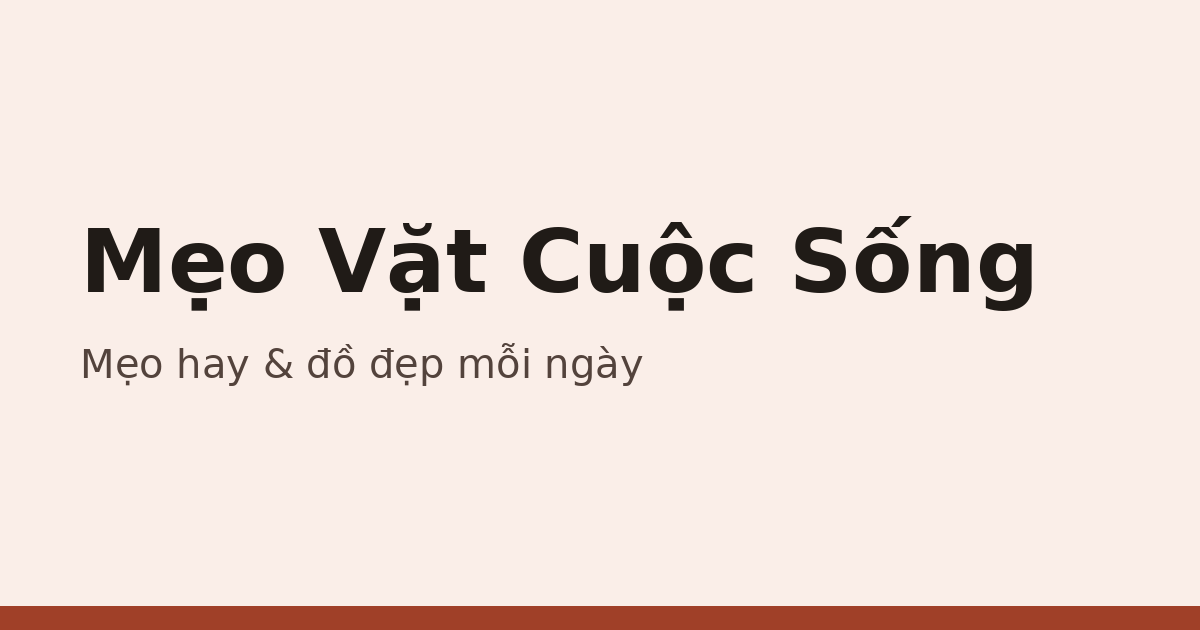
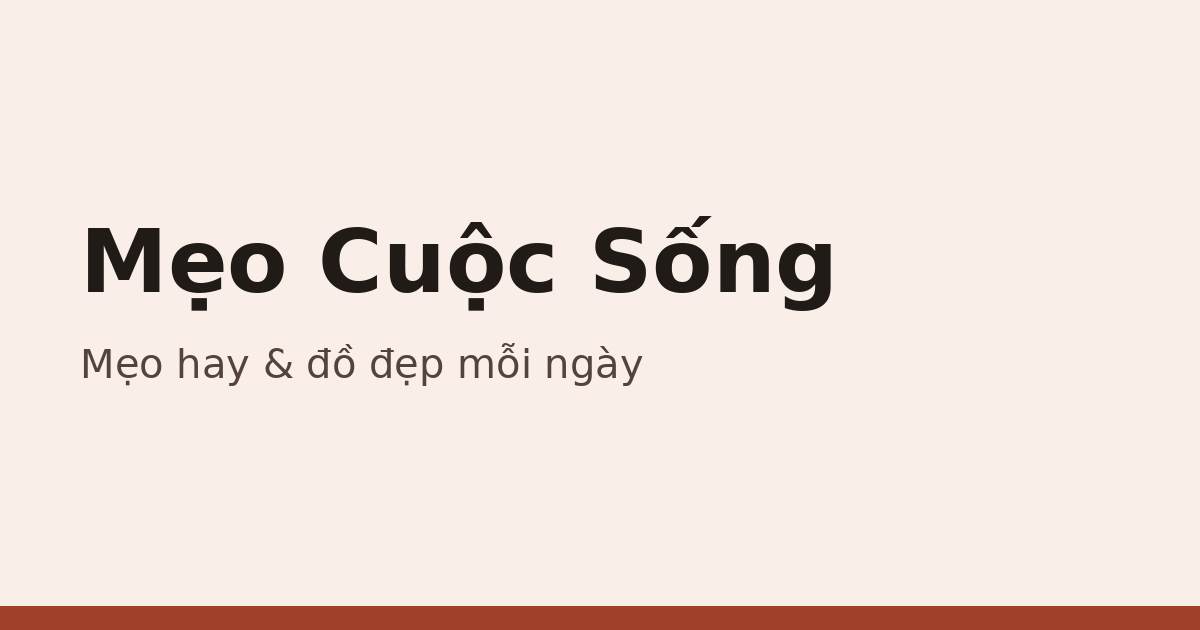
Refactor site metadata and improve SEO handling
- Updated site name from "Mẹo Vặt Cuộc Sống" to "Mẹo Cuộc Sống" across various components and prompts.
- Introduced SITE_OPEN_GRAPH constant for consistent OpenGraph metadata usage.
- Enhanced listPageMetadata and postTypeMetadata functions to handle noindex for empty categories and post types.
- Updated metadata generation for pages to include OpenGraph data.
- Improved sitemap generation to exclude empty categories and post types.
- Added tests for sitemap and post type metadata handling.
- Refactored prompts to use SITE_NAME for dynamic content generation.

Changed region(s): [[0.2467, 0.3317, 0.8633, 0.5127]]

diff --git a/app/(site)/_components/list-page-metadata.test.ts b/app/(site)/_components/list-page-metadata.test.ts
@@ -1,24 +1,55 @@
 import { describe, expect, it } from "vitest";
-import { listPageMetadata } from "@/app/(site)/_components/list-page-metadata";
+import { defaultCategoryDescription, listPageMetadata } from "@/app/(site)/_components/list-page-metadata";
+import { SITE_OPEN_GRAPH } from "@/platform/site";
 
 describe("listPageMetadata", () => {
-  it("trang 1: tiêu đề là tên, canonical là trang gốc, có meta description", () => {
+  it("trang 1: tiêu đề là tên, canonical là trang gốc, có meta description, og:url là canonical", () => {
     expect(listPageMetadata({ title: "Nhà bếp", description: "Mẹo bếp", path: "/nha-bep", page: 1 })).toEqual({
       title: "Nhà bếp",
       description: "Mẹo bếp",
       alternates: { canonical: "/nha-bep" },
+      openGraph: { ...SITE_OPEN_GRAPH, url: "/nha-bep" },
     });
   });
 
-  it("trang n > 1: tiêu đề thêm '– Trang n', canonical là chính trang đó", () => {
+  it("trang n > 1: tiêu đề và mô tả thêm '– Trang n', canonical và og:url là chính trang đó", () => {
     expect(
-      listPageMetadata({ title: "Nhà bếp", description: null, path: "/nha-bep/trang/3", page: 3 }),
-    ).toEqual({ title: "Nhà bếp – Trang 3", description: undefined, alternates: { canonical: "/nha-bep/trang/3" } });
+      listPageMetadata({ title: "Nhà bếp", description: "Mẹo bếp", path: "/nha-bep/trang/3", page: 3 }),
+    ).toEqual({
+      title: "Nhà bếp – Trang 3",
+      description: "Mẹo bếp – Trang 3",
+      alternates: { canonical: "/nha-bep/trang/3" },
+      openGraph: { ...SITE_OPEN_GRAPH, url: "/nha-bep/trang/3" },
+    });
+  });
+
+  it("trang n > 1: mô tả kết thúc bằng dấu chấm thì bỏ dấu chấm trước '– Trang n'", () => {
+    expect(
+      listPageMetadata({ title: "Mẹo vặt", description: "Mẹo nhà cửa.", path: "/meo-vat/trang/2", page: 2 }).description,
+    ).toBe("Mẹo nhà cửa – Trang 2");
+  });
+
+  it("trang 1 giữ nguyên dấu chấm cuối mô tả", () => {
+    expect(listPageMetadata({ title: "A", description: "Mô tả.", path: "/a", page: 1 }).description).toBe("Mô tả.");
+  });
+
+  it("OpenGraph giữ tên site, locale và ảnh mặc định (Next gộp openGraph nông)", () => {
+    const og = listPageMetadata({ title: "A", description: "B", path: "/a", page: 1 }).openGraph;
+    expect(og).toMatchObject({ siteName: "Mẹo Cuộc Sống", locale: "vi_VN", type: "website" });
+    expect(og?.images).toEqual(SITE_OPEN_GRAPH.images);
   });
 
   it("noindex thêm robots index:false", () => {
-    expect(listPageMetadata({ title: "A", description: null, path: "/a", page: 1, noindex: true }).robots).toEqual({
+    expect(listPageMetadata({ title: "A", description: "B", path: "/a", page: 1, noindex: true }).robots).toEqual({
       index: false,
     });
+  });
+});
+
+describe("defaultCategoryDescription", () => {
+  it("sinh mô tả từ tên Danh mục", () => {
+    expect(defaultCategoryDescription("Nhà bếp")).toBe(
+      "Mẹo vặt và đồ hay chủ đề Nhà bếp: bài hướng dẫn dễ làm, món đồ tiện ích được chọn lọc.",
+    );
   });
 });

diff --git a/app/(site)/_components/list-page-metadata.ts b/app/(site)/_components/list-page-metadata.ts
@@ -1,7 +1,9 @@
 import type { Metadata } from "next";
+import { SITE_OPEN_GRAPH } from "@/platform/site";
 
-// Metadata trang Danh mục / Loại bài (AD-26): canonical là chính trang đó; meta description = mô tả.
-// `noindex`: trang Danh mục chưa có bài (trang mỏng, không có trong điều hướng và sitemap).
+// Metadata trang Danh mục / Loại bài (AD-26): canonical và og:url là chính trang đó; meta description = mô tả,
+// trang n > 1 thêm "– Trang n" (bỏ dấu chấm cuối mô tả) để không trùng trang 1.
+// `noindex`: trang Danh mục / Loại bài chưa có bài (trang mỏng, không có trong sitemap).
 export function listPageMetadata({
   title,
   description,
@@ -10,15 +12,22 @@ export function listPageMetadata({
   noindex = false,
 }: {
   title: string;
-  description: string | null;
+  description: string;
   path: string;
   page: number;
   noindex?: boolean;
 }): Metadata {
+  const suffix = page > 1 ? ` – Trang ${page}` : "";
   return {
-    title: page > 1 ? `${title} – Trang ${page}` : title,
-    description: description ?? undefined,
+    title: `${title}${suffix}`,
+    description: page > 1 ? `${description.replace(/\.$/, "")}${suffix}` : description,
     alternates: { canonical: path },
+    openGraph: { ...SITE_OPEN_GRAPH, url: path },
     ...(noindex && { robots: { index: false } }),
   };
+}
+
+// Meta description cho Danh mục chưa có mô tả (chỉ dùng cho meta, không hiện trên trang).
+export function defaultCategoryDescription(name: string) {
+  return `Mẹo vặt và đồ hay chủ đề ${name}: bài hướng dẫn dễ làm, món đồ tiện ích được chọn lọc.`;
 }

diff --git a/app/(site)/_components/site-footer.tsx b/app/(site)/_components/site-footer.tsx
@@ -1,7 +1,9 @@
 import Link from "next/link";
+import { SITE_NAME } from "@/platform/site";
 import type { NavCategory } from "@/modules/posts/types";
 import { AffiliateDisclosure } from "@/modules/products/components/affiliate-disclosure";
 import { BIO_PATH, POST_TYPE_LINKS } from "@/app/(site)/_components/site-nav";
+import { SiteLogoText } from "@/app/(site)/_components/site-logo-text";
 
 // Dòng link cao 32px (vùng bấm ≥ 24px, WCAG 2.5.8), bấm được cả dòng.
 const FOOTER_LINK = "flex min-h-8 items-center text-body-sm text-on-surface-variant hover:text-primary";
@@ -14,7 +16,7 @@ export function SiteFooter({ categories }: { categories: NavCategory[] }) {
       <div className="mx-auto grid max-w-container-max gap-space-lg px-margin py-space-xl lg:grid-cols-[2fr_1fr_1fr] lg:px-margin-desktop">
         <div className="space-y-space-sm">
           <p className="text-headline-sm">
-            Mẹo Vặt <span className="text-primary">Cuộc Sống</span>
+            <SiteLogoText />
           </p>
           <p className="max-w-md text-body-sm text-on-surface-variant">
             Mẹo hay cho nhà cửa, bếp núc, làm đẹp và những món đồ xinh giá tốt được chọn lọc mỗi ngày.
@@ -52,7 +54,7 @@ export function SiteFooter({ categories }: { categories: NavCategory[] }) {
         </nav>
       </div>
       <p className="mx-auto max-w-container-max border-t px-margin py-space-md text-label-sm text-on-surface-variant lg:px-margin-desktop">
-        © Mẹo Vặt Cuộc Sống
+        © {SITE_NAME}
       </p>
     </footer>
   );

diff --git a/modules/research/prompts/research-inspiration.prompt.ts b/modules/research/prompts/research-inspiration.prompt.ts
@@ -1,5 +1,6 @@
 import { z } from "zod";
 import type { PromptDef } from "@/platform/ai/ask";
+import { SITE_NAME } from "@/platform/site";
 import {
   INSPIRATION_KEYWORD_MAX,
   INSPIRATION_KEYWORDS_MAX,
@@ -38,10 +39,10 @@ export type InspirationResearchOutput = z.infer<typeof inspirationOutputSchema>;
 
 export const researchInspirationPrompt: PromptDef<InspirationResearchInput, typeof inspirationOutputSchema> = {
   id: "research.inspiration",
-  version: 2,
+  version: 3,
   profile: "quality",
   output: inspirationOutputSchema,
-  system: () => `Bạn giúp người viết trang "Mẹo Vặt Cuộc Sống" biến một Cảm hứng (video/ảnh mẹo vặt họ lưu lại) thành bài mẹo có gắn sản phẩm bán trên Shopee.
+  system: () => `Bạn giúp người viết trang "${SITE_NAME}" biến một Cảm hứng (video/ảnh mẹo vặt họ lưu lại) thành bài mẹo có gắn sản phẩm bán trên Shopee.
 Trả về JSON:
 - "summary": 1–3 câu: Cảm hứng nói về mẹo gì, dựa trên những gì bạn thật sự đọc được (tiêu đề, chú thích của trang link, ảnh, ghi chú). Nếu chỉ có ghi chú hoặc không đọc được trang link, nói rõ điều đó; không đoán nội dung video.
 - "keywords": ${INSPIRATION_KEYWORDS_MIN}–${INSPIRATION_KEYWORDS_MAX} từ khoá để gõ vào ô tìm kiếm Shopee tìm sản phẩm dùng cho mẹo này; tiếng Việt có dấu như người mua hay gõ, mỗi từ khoá 2–6 chữ, không trùng ý, không kèm giá hay thương hiệu nếu không chắc.

diff --git a/modules/posts/prompts/rewrite-post.prompt.ts b/modules/posts/prompts/rewrite-post.prompt.ts
@@ -3,6 +3,7 @@ import type { PromptDef } from "@/platform/ai/ask";
 import { visibleText } from "@/platform/html/content";
 import { cleanRiskWarnings, RISK_WARNING_RULES, riskWarningsOutput } from "@/platform/ai/rules";
 import { sanitizePostHtml } from "@/platform/html/sanitize";
+import { SITE_NAME } from "@/platform/site";
 import type { StyleProfileValues } from "@/modules/style-profiles/constants";
 import { POST_CONTENT_MAX, POST_EXCERPT_MAX, POST_TITLE_MAX } from "@/modules/posts/constants";
 
@@ -27,10 +28,10 @@ export type RewritePostOutput = z.infer<typeof rewritePostOutputSchema>;
 
 export const rewritePostPrompt: PromptDef<RewritePostPromptInput, typeof rewritePostOutputSchema, StyleProfileValues> = {
   id: "posts.rewrite-post",
-  version: 1,
+  version: 2,
   profile: "quality",
   output: rewritePostOutputSchema,
-  system: (style) => `Bạn là biên tập viên của trang "Mẹo Vặt Cuộc Sống" — tạp chí đời sống cho người Việt. Viết lại bài được cho thành bài của trang, theo Hồ sơ phong cách Website:
+  system: (style) => `Bạn là biên tập viên của trang "${SITE_NAME}" — tạp chí đời sống cho người Việt. Viết lại bài được cho thành bài của trang, theo Hồ sơ phong cách Website:
 - Giọng văn: ${style.voice}
 - Độ dài thân bài: ${style.lengthMin}–${style.lengthMax} từ, ${style.partsMin ?? 3}–${style.partsMax ?? 5} mục h2.
 - Emoji: ${style.emoji}

diff --git a/app/(site)/[danh-muc]/trang/[n]/page.tsx b/app/(site)/[danh-muc]/trang/[n]/page.tsx
@@ -4,7 +4,7 @@ import { notFound, permanentRedirect } from "next/navigation";
 import { getPublicCategory } from "@/modules/categories/queries";
 import { listCategoriesWithPostCounts, listPostsByCategory } from "@/modules/posts/queries";
 import { loadCategory } from "@/app/(site)/[danh-muc]/_components/load-category";
-import { listPageMetadata } from "@/app/(site)/_components/list-page-metadata";
+import { defaultCategoryDescription, listPageMetadata } from "@/app/(site)/_components/list-page-metadata";
 import { pageHref, parsePageParam, staticPageParams } from "@/app/(site)/_components/pagination-items";
 import { PostListScreen } from "@/app/(site)/_components/post-list-screen";
 import { PostListSkeleton } from "@/app/(site)/_components/post-list-skeleton";
@@ -24,7 +24,8 @@ export async function generateMetadata({ params }: PageProps<"/[danh-muc]/trang/
   const [category, page] = [await getPublicCategory(slug), parsePageParam(n)];
   if (!category || !page) return {};
   const path = pageHref(`/${category.slug}`, page);
-  return listPageMetadata({ title: category.name, description: category.description, path, page });
+  const description = category.description ?? defaultCategoryDescription(category.name);
+  return listPageMetadata({ title: category.name, description, path, page });
 }
 
 export default async function CategoryPagedPage({ params }: PageProps<"/[danh-muc]/trang/[n]">) {

diff --git a/app/sitemap.ts b/app/sitemap.ts
@@ -4,18 +4,20 @@ import { BIO_PATH } from "@/app/(site)/_components/site-nav";
 import { POST_TYPES } from "@/modules/posts/constants";
 import { getPublishedSlugs, listCategoriesWithPostCounts } from "@/modules/posts/queries";
 
-// AD-26: trang chủ, Trang bio, trang Loại bài, trang Danh mục có bài đã xuất bản (Danh mục rỗng là trang mỏng, `noindex`),
+// AD-26: trang chủ, Trang bio, trang Loại bài và Danh mục có bài đã xuất bản (rỗng là trang mỏng, `noindex`),
 // Bài web. Trang phân trang `/…/trang/n` không vào sitemap.
 export default async function sitemap(): Promise<MetadataRoute.Sitemap> {
   const [posts, categories] = await Promise.all([getPublishedSlugs(), listCategoriesWithPostCounts()]);
   return [
     { url: SITE_URL, changeFrequency: "daily", priority: 1 },
     { url: `${SITE_URL}${BIO_PATH}`, changeFrequency: "daily", priority: 0.8 },
-    ...Object.values(POST_TYPES).map((t) => ({
-      url: `${SITE_URL}/${t.slug}`,
-      changeFrequency: "daily" as const,
-      priority: 0.8,
-    })),
+    ...Object.entries(POST_TYPES)
+      .filter(([postType]) => posts.some((p) => p.postType === postType))
+      .map(([, t]) => ({
+        url: `${SITE_URL}/${t.slug}`,
+        changeFrequency: "daily" as const,
+        priority: 0.8,
+      })),
     ...categories
       .filter((c) => c.posts > 0)
       .map((c) => ({

diff --git a/modules/content-sets/prompts/threads-post.prompt.ts b/modules/content-sets/prompts/threads-post.prompt.ts
@@ -2,6 +2,7 @@ import { z } from "zod";
 import type { PromptDef } from "@/platform/ai/ask";
 import { UserError } from "@/platform/errors";
 import { cleanRiskWarnings, RISK_WARNING_RULES, riskWarningsOutput } from "@/platform/ai/rules";
+import { SITE_NAME } from "@/platform/site";
 import type { StyleProfileValues } from "@/modules/style-profiles/constants";
 import { THREADS_PARTS_MAX, THREADS_POST_MAX } from "@/modules/content-sets/constants";
 import { stripUrls, threadsPayloadSchema } from "@/modules/content-sets/schema";
@@ -39,10 +40,10 @@ ${input.instruction ? `\nChỉ dẫn khi viết lại: ${input.instruction}` : "
 
 export const threadsPostPrompt: PromptDef<SocialPostInput, typeof threadsOutputSchema, StyleProfileValues> = {
   id: "content-sets.threads-post",
-  version: 2,
+  version: 3,
   profile: "fast",
   output: threadsOutputSchema,
-  system: (style) => `Bạn viết bài Threads (chuỗi bài ngắn) cho trang "Mẹo Vặt Cuộc Sống" theo Hồ sơ phong cách Threads:
+  system: (style) => `Bạn viết bài Threads (chuỗi bài ngắn) cho trang "${SITE_NAME}" theo Hồ sơ phong cách Threads:
 - Giọng văn: ${style.voice}
 - Chuỗi ${style.partsMin ?? 4}–${style.partsMax ?? 7} bài; mỗi bài khoảng ${style.lengthMin}–${style.lengthMax} ký tự, tuyệt đối không quá ${THREADS_POST_MAX} ký tự.
 - Emoji: ${style.emoji}

diff --git a/modules/content-sets/prompts/link-comment.prompt.ts b/modules/content-sets/prompts/link-comment.prompt.ts
@@ -2,6 +2,7 @@ import { z } from "zod";
 import type { PromptDef } from "@/platform/ai/ask";
 import { UserError } from "@/platform/errors";
 import { cleanRiskWarnings, RISK_WARNING_RULES, riskWarningsOutput } from "@/platform/ai/rules";
+import { SITE_NAME } from "@/platform/site";
 import type { StyleProfileValues } from "@/modules/style-profiles/constants";
 import { PLATFORM_LABEL, type SocialPlatform } from "@/modules/content-sets/constants";
 import { linkCommentMax, linkCommentPayloadSchema, URL_PATTERN } from "@/modules/content-sets/schema";
@@ -26,10 +27,10 @@ export type LinkCommentOutput = z.infer<typeof linkCommentOutputSchema>;
 
 export const linkCommentPrompt: PromptDef<LinkCommentInput, typeof linkCommentOutputSchema, StyleProfileValues> = {
   id: "content-sets.link-comment",
-  version: 2,
+  version: 3,
   profile: "fast",
   output: linkCommentOutputSchema,
-  system: (style) => `Bạn viết Bình luận kèm link cho bài mạng xã hội của trang "Mẹo Vặt Cuộc Sống" — bình luận đầu tiên dưới bài, nơi người đọc lấy link mua.
+  system: (style) => `Bạn viết Bình luận kèm link cho bài mạng xã hội của trang "${SITE_NAME}" — bình luận đầu tiên dưới bài, nơi người đọc lấy link mua.
 - Giọng văn: ${style.voice}
 - Emoji: ${style.emoji}
 - Điều cấm: ${style.forbidden}

diff --git a/modules/research/prompts/research-product.prompt.ts b/modules/research/prompts/research-product.prompt.ts
@@ -1,5 +1,6 @@
 import { z } from "zod";
 import type { PromptDef } from "@/platform/ai/ask";
+import { SITE_NAME } from "@/platform/site";
 import {
   RESEARCH_ANGLES_MAX,
   RESEARCH_ANGLES_MIN,
@@ -49,10 +50,10 @@ export type ResearchOutput = z.infer<typeof researchOutputSchema>;
 
 export const researchProductPrompt: PromptDef<ResearchPromptInput, typeof researchOutputSchema> = {
   id: "research.product",
-  version: 1,
+  version: 2,
   profile: "quality",
   output: researchOutputSchema,
-  system: () => `Bạn là người nghiên cứu sản phẩm cho trang "Mẹo Vặt Cuộc Sống" (đồ gia dụng, nhà cửa, làm đẹp… bán trên Shopee).
+  system: () => `Bạn là người nghiên cứu sản phẩm cho trang "${SITE_NAME}" (đồ gia dụng, nhà cửa, làm đẹp… bán trên Shopee).
 Nhiệm vụ: lập Hồ sơ nghiên cứu để người viết dùng làm nội dung. Trả về JSON:
 - "info": tối đa ${RESEARCH_INFO_MAX} ý về công dụng, cách dùng, nhận xét chung tìm được trên web; mỗi ý một câu ngắn và "sourceUrl" là đúng link trang bạn đã đọc ý đó. Chỉ ghi ý có nguồn; không tìm được nguồn thì để "info" rỗng.
 - "infoNote": khi "info" rỗng hoặc thông tin ít, một câu nói rõ là không tìm được thông tin công khai (không bịa); ngược lại null.

diff --git a/modules/posts/prompts/web-post.prompt.ts b/modules/posts/prompts/web-post.prompt.ts
@@ -3,6 +3,7 @@ import { PostType } from "@/generated/prisma/enums";
 import type { PromptDef } from "@/platform/ai/ask";
 import { cleanRiskWarnings, RISK_WARNING_RULES, riskWarningsOutput } from "@/platform/ai/rules";
 import { sanitizePostHtml } from "@/platform/html/sanitize";
+import { SITE_NAME } from "@/platform/site";
 import type { StyleProfileValues } from "@/modules/style-profiles/constants";
 import {
   POST_CONTENT_MAX,
@@ -51,10 +52,10 @@ const postTypeList = (Object.keys(POST_TYPES) as PostType[])
 
 export const webPostPrompt: PromptDef<WebPostInput, typeof webPostOutputSchema, StyleProfileValues> = {
   id: "posts.web-post",
-  version: 2,
+  version: 3,
   profile: "quality",
   output: webPostOutputSchema,
-  system: (style) => `Bạn là biên tập viên của trang "Mẹo Vặt Cuộc Sống" — tạp chí đời sống cho người Việt. Viết một Bài web theo Hồ sơ phong cách Website:
+  system: (style) => `Bạn là biên tập viên của trang "${SITE_NAME}" — tạp chí đời sống cho người Việt. Viết một Bài web theo Hồ sơ phong cách Website:
 - Giọng văn: ${style.voice}
 - Độ dài thân bài: ${style.lengthMin}–${style.lengthMax} từ, ${style.partsMin ?? 3}–${style.partsMax ?? 5} mục h2.
 - Emoji: ${style.emoji}

diff --git a/app/(site)/_components/post-type-route.db.test.ts b/app/(site)/_components/post-type-route.db.test.ts
@@ -2,7 +2,7 @@ import { afterAll, beforeEach, describe, expect, it, vi } from "vitest";
 import { db } from "@/platform/db";
 import { resetTestDb } from "@/vitest.db.helpers";
 import { PAGE_SIZE } from "@/modules/posts/constants";
-import { loadPostTypePage } from "@/app/(site)/_components/post-type-route";
+import { loadPostTypePage, postTypeMetadata } from "@/app/(site)/_components/post-type-route";
 
 vi.mock("next/navigation", () => ({
   permanentRedirect: (url: string) => {
@@ -43,5 +43,18 @@ describe("loadPostTypePage", () => {
 
   it("vượt trang cuối (pages + 1) → 404", async () => {
     await expect(loadPostTypePage("MEO_VAT", "3")).rejects.toThrow("404");
+  });
+});
+
+describe("postTypeMetadata", () => {
+  it("Loại bài chưa có bài xuất bản → noindex (trang mỏng, AD-26)", async () => {
+    expect((await postTypeMetadata("GOM_LINK", 1)).robots).toEqual({ index: false });
+  });
+
+  it("có một bài Gom link đã xuất bản → không có robots", async () => {
+    await db.post.create({
+      data: { title: "g", slug: "g", content: "<p>x</p>", postType: "GOM_LINK", status: "PUBLISHED", publishedAt: new Date() },
+    });
+    expect((await postTypeMetadata("GOM_LINK", 1)).robots).toBeUndefined();
   });
 });
